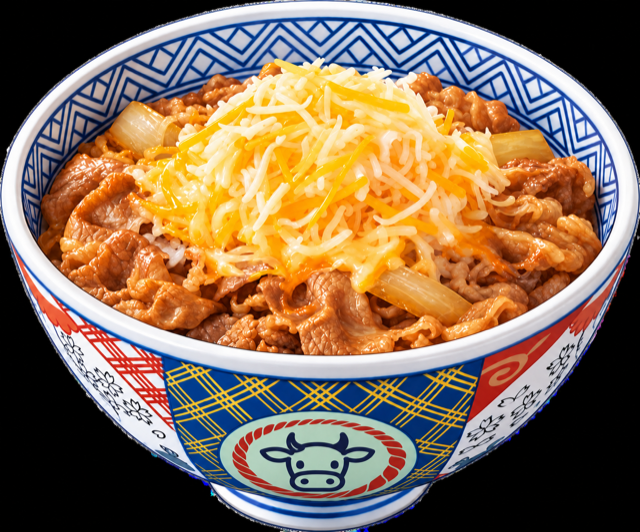
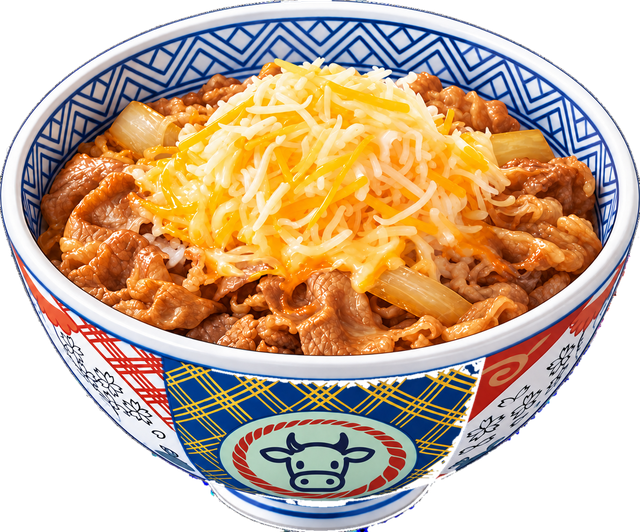
イラストを背景透過版に差し替え、ファビコン追加

diff --git a/index.html b/index.html
@@ -9,8 +9,10 @@
   <meta name="apple-mobile-web-app-status-bar-style" content="default" />
   <meta name="apple-mobile-web-app-title" content="チー牛" />
   <link rel="manifest" href="manifest.webmanifest" />
-  <link rel="icon" href="assets/icon-192.png" />
-  <link rel="apple-touch-icon" href="assets/icon-192.png" />
+  <link rel="icon" href="favicon.ico" sizes="any" />
+  <link rel="icon" type="image/png" sizes="32x32" href="assets/favicon-32.png" />
+  <link rel="icon" type="image/png" sizes="192x192" href="assets/icon-192.png" />
+  <link rel="apple-touch-icon" sizes="180x180" href="assets/apple-touch-icon.png" />
   <link rel="stylesheet" href="style.css" />
 </head>
 <body>

diff --git a/sw.js b/sw.js
@@ -1,5 +1,5 @@
 // アプリの殻だけキャッシュし、データは常にネットワークから取る
-const CACHE = 'chigyu-v2';
+const CACHE = 'chigyu-v3';
 const SHELL = ['./', './index.html', './style.css', './app.js', './config.js', './manifest.webmanifest', './assets/bowl.png'];
 
 self.addEventListener('install', (e) => {
